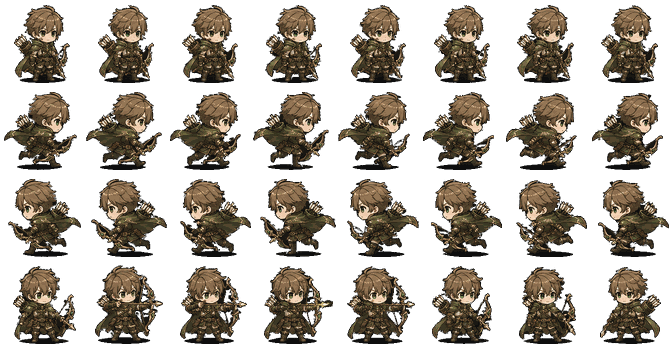
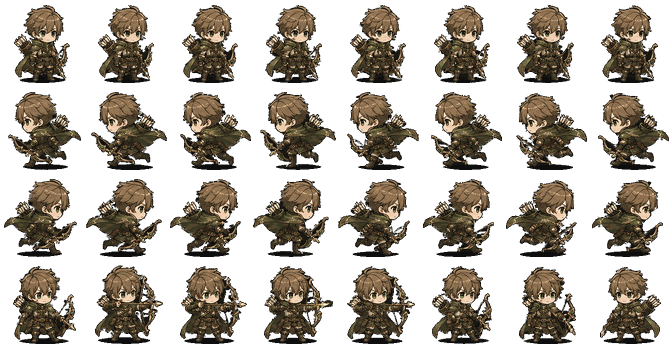
전사 시안을 그림 파일로 갈아 끼우고, 궁수 걷기를 바로 굽는다
여덟 번째로 받은 시안이다(`warrior.png`). 도형으로 그린 전사는 지웠고, 이로써
아군은 모두 시안 그림이 됐다 — 남은 도형 넷은 전부 적이다.

- 칸 93×90, 8칸×4줄에 넷 다 여덟 장씩. 인물의 키는 앞의 일곱과 같은 76픽셀,
  `box`는 25다. 공격의 붉은 참격은 앞의 셋과 같은 자리라 효과째 담았다.
- 번호표가 효과의 어두운 안개와 이어져 성분으로 안 갈리는 프레임이 있었다.
  번호표는 늘 칸의 왼쪽 위 구석에 있고 인물은 칸 가운데에 서므로, 그 구석을
  라벨링 전에 지운다.

**궁수 걷기를 다시 구웠다.** 어제 "궁수 시안은 오른쪽으로 걷는다"고 읽고 걷기 줄을
뒤집어 구운 것이 틀렸다 — 얼굴이 있는 쪽으로 다시 보니 궁수도 다른 시안과 같이
왼쪽으로 걷는다. `clips`에서 줄을 맞바꿔 덮어 두었던 예외를 없애고 그림을 바로
구워, 여덟 시트가 모두 같은 규칙(1행 왼쪽·2행 오른쪽)을 따른다.

**대신 그릴 도형을 이름으로 집지 않도록 고쳤다**(`Sprites.svg`). 전사 도형이
사라지자 거기서 터졌다 — 시안이 오는 대로 도형이 하나씩 없어지므로 이름을 집어
두면 언젠가 또 걸린다.

검증: 힐러 테스트 열두 파일 전부 통과(ai 109 · art 168 · attrs 69 · flow 58 ·
items 105 · logic 401 · loot 34 · progress 142 · quests 52 · rep 121 ·
roster 117 · shop 28, 실패 0). 크로뮴에서 전장·편성 목록·전투 초상화 세 자리를
모두 보고 페이지 오류가 없음을 확인했으며, 궁수 시트는 줄마다 얼굴 방향을 눈으로
다시 봤다.

Claude-Session: https://claude.ai/code/session_015YSpsURuUqPhSx5KiHykMJ

Changed region(s): [[0.0, 0.2586, 1.0, 0.4885], [0.0, 0.5172, 1.0, 0.7471]]

diff --git a/games/healer/sprites.js b/games/healer/sprites.js
@@ -114,23 +114,6 @@ const SPRITES = {
   // 남겨 두면 죽은 자료가 살아 있는 것처럼 보이고, 화면이 분기를 한 번 놓치면
   // 조용히 전사 그림이 나온다.
 
-  // 전사. 치켜든 큰 검과 어깨 가죽. 같은 근접인 도적과는 덩치와 무기로 갈린다.
-  warrior: {
-    w: 16, h: 20,
-    parts: [
-      ...body({ cloth: 'r', trim: 'l', boot: 'L' }),
-      // 어깨 가죽. 전사는 갑옷을 반쪽만 걸친다.
-      { p: 'M2.8 11.6 Q3.0 9.6 5.6 9.6 L5.6 12.6 Q3.8 12.8 2.8 11.6 Z', f: 'l' },
-      { p: 'M2.9 4.6 Q3.4 -0.2 8 -0.2 Q12.6 -0.2 13.1 4.6 Q10.6 2.8 8 2.8 Q5.4 2.8 2.9 4.6 Z', f: 'h' },
-      { p: 'M2.9 4.6 Q2.5 7.6 3.3 9.2 Q2.3 6.4 3.4 4.2 Z', f: 'H', o: 0 },
-      // 검. 손에서 위로 뻗어 머리 옆을 지난다.
-      { p: 'M13.9 0.2 L15.4 0.9 L15.1 9.6 L13.9 9.6 Z', f: 'm' },
-      { p: 'M13.9 0.2 L14.6 0.5 L14.4 9.6 L13.9 9.6 Z', f: 'M', o: 0 },
-      { r: [12.5, 9.6, 4.0, 1.2, 0.4], f: 'g' },
-      { r: [13.9, 10.6, 1.3, 3.4, 0.5], f: 'L' },
-    ],
-  },
-
   // 고블린 척후병. 작고 뾰족한 귀에 단검. 아군보다 작게 그려 나란히 섰을 때
   // 키 차이가 바로 보인다.
   goblin: {
@@ -277,6 +260,27 @@ const SHEETS = {
     },
   },
 
+  // 전사. 여덟 번째로 받은 시안이다. 공격의 붉은 참격이 옆으로 길지만 칸이 다른
+  // 시트와 비슷한 것은, 이 시안의 인물이 그만큼 야무지게 서 있기 때문이다.
+  warrior: {
+    src: 'warrior.png',
+    cell: { w: 93, h: 90 },
+    cols: 8, rows: 4,
+    box: 25,
+    clips: {
+      idle:      { row: 0, frames: 8, fps: 6 },
+      walkLeft:  { row: 1, frames: 8, fps: 10 },
+      walkRight: { row: 2, frames: 8, fps: 10 },
+      attack:    { row: 3, frames: 8, fps: 12, once: 1 },
+    },
+    // 앞의 일곱과 같은 이유로 대기 줄만 뒤집어 구웠다.
+    crops: {
+      full: { x: 0, y: 0, w: 1, h: 1 },
+      list: { x: 0.21, y: 0.05, w: 0.60, h: 0.92 },
+      head: { x: 0.28, y: 0.06, w: 0.46, h: 0.49 },
+    },
+  },
+
   // 사제. 일곱 번째로 받은 시안이다. **주인공과 나란히 서는 그림이라** 둘이 다
   // 흰 로브인데, 주인공은 크림색에 금 장식이고 이쪽은 흰 두건에 푸른 띠다 —
   // 도형이던 때에 색과 머리로 갈랐던 것과 같은 자리다.
@@ -371,8 +375,7 @@ const SHEETS = {
   },
 
   // 궁수. 세 번째로 받은 시안이다. 줄이 셋뿐이라(대기·이동·공격) 걷기는 한쪽을
-  // 뒤집어 만든다 — 주인공과 같은 사정인데 방향이 반대다. 시안이 오른쪽으로
-  // 걸으므로 여기서는 **왼쪽**을 뒤집어 만든다.
+  // 뒤집어 만든다 — 시안이 어느 쪽으로 걷는지는 시안마다 보고 정한다.
   archer: {
     src: 'archer.png',
     cell: { w: 84, h: 87 },
@@ -382,17 +385,13 @@ const SHEETS = {
     box: 25,
     clips: {
       idle:      { row: 0, frames: 8, fps: 6 },
-      // **이 시트만 걷기 두 줄의 차례가 반대다.** 다른 시트는 시안이 왼쪽으로
-      // 걸어 원본이 1행에 그대로 들어가고 뒤집은 것이 2행이 됐는데, 궁수는 시안이
-      // 오른쪽으로 걸으므로 같은 순서로 구우면 1행이 오른쪽, 2행이 왼쪽이 된다.
-      // 다시 굽는 대신 여기서 줄을 가리켜 맞춘다 — 시트는 사람이 그린 것이라
-      // 자료 한 줄로 끝날 일에 그림을 건드리지 않는다.
-      walkLeft:  { row: 2, frames: 8, fps: 10 },
-      walkRight: { row: 1, frames: 8, fps: 10 },
+      walkLeft:  { row: 1, frames: 8, fps: 10 },
+      walkRight: { row: 2, frames: 8, fps: 10 },
       attack:    { row: 3, frames: 8, fps: 12, once: 1 },
     },
     // 앞의 둘과 같은 이유로 대기 줄만 뒤집어 구웠다. 시안의 대기는 활을 왼손에
-    // 들어 왼쪽을 보는 것으로 읽히는데, 공격은 오른쪽으로 쏜다.
+    // 들어 왼쪽을 보는 것으로 읽히는데, 공격은 오른쪽으로 쏜다. 걷기도 다른
+    // 시트와 같이 시안이 왼쪽으로 걸어, 오른쪽 줄만 뒤집어 만들었다.
     crops: {
       full: { x: 0, y: 0, w: 1, h: 1 },
       list: { x: 0.15, y: 0.04, w: 0.70, h: 0.94 },
@@ -430,7 +429,9 @@ const cache = new Map();
 
 function svg(kind) {
   if (cache.has(kind)) return cache.get(kind);
-  const sprite = SPRITES[kind] || SPRITES.warrior;
+  // **대신 그릴 것을 이름으로 집지 않는다.** 시안이 오는 대로 도형이 하나씩
+  // 사라지므로, 집어 둔 이름이 없어지는 날 여기서 터진다(실제로 전사가 그랬다).
+  const sprite = SPRITES[kind] || Object.values(SPRITES)[0];
   const parts = sprite.parts.map(shape).join('');
   // 테두리가 바깥으로 반 굵기 삐져나가고, 뿔이나 검이 격자를 조금 넘는다.
   // 여유 한 칸을 두지 않으면 그것들이 잘린다.
@@ -451,7 +452,9 @@ function size(kind) {
     const h = s.box || 22;
     return { w: Math.round((h * s.cell.w) / s.cell.h * 10) / 10, h };
   }
-  const sprite = SPRITES[kind] || SPRITES.warrior;
+  // **대신 그릴 것을 이름으로 집지 않는다.** 시안이 오는 대로 도형이 하나씩
+  // 사라지므로, 집어 둔 이름이 없어지는 날 여기서 터진다(실제로 전사가 그랬다).
+  const sprite = SPRITES[kind] || Object.values(SPRITES)[0];
   return { w: sprite.w + 2, h: sprite.h + 2 };
 }
 

diff --git a/games/healer/art.test.js b/games/healer/art.test.js
@@ -54,11 +54,11 @@ function check(name, actual, expected) {
       Sprites.size(kind), { w: sprite.w + 2, h: sprite.h + 2 });
   }
 
-  // 시안을 받은 일곱만 그림 파일이고 나머지 다섯(전사·고블린·주술사·오크·
-  // 우두머리)이 도형이다. 화풍이 섞이는 것은 시안이 오는 대로 하나씩 갈아
-  // 끼우기 때문이다 — 남은 시안이 오면 여기부터 바뀐다.
-  check('도형 그림 다섯', Object.keys(Sprites.SPRITES).length, 5);
-  check('그림 파일 일곱', Object.keys(Sprites.SHEETS).length, 7);
+  // 시안을 받은 여덟만 그림 파일이고 나머지 넷(고블린·주술사·오크·우두머리)이
+  // 도형이다. 화풍이 섞이는 것은 시안이 오는 대로 하나씩 갈아 끼우기 때문이다 —
+  // 남은 시안이 오면 여기부터 바뀐다. **남은 넷은 전부 적이다.**
+  check('도형 그림 넷', Object.keys(Sprites.SPRITES).length, 4);
+  check('그림 파일 여덟', Object.keys(Sprites.SHEETS).length, 8);
   // 한쪽에만 있어야 한다. 양쪽에 두면 화면이 분기를 놓쳤을 때 조용히 도형이 나온다.
   const both = Object.keys(Sprites.SHEETS).filter((k) => Sprites.SPRITES[k]);
   check('그림 파일은 도형으로 겹치지 않는다', both, []);

diff --git a/index.html b/index.html
@@ -105,7 +105,7 @@
     <a href="https://github.com/cshlacid/web-games">GitHub</a>
     <!-- 배포 표시. main에 머지할 때마다 올린다 — 규칙은 CLAUDE.md에 있다.
          날짜에 그날의 번호를 붙여, 같은 날 여러 번 올려도 구별된다. -->
-    <span class="deploy">2026-09-06.17</span>
+    <span class="deploy">2026-09-07.1</span>
   </footer>
 </main>
 

diff --git a/games/healer/CLAUDE.md b/games/healer/CLAUDE.md
@@ -1660,12 +1660,12 @@ Lv6 알맞음 75% · Lv6+3 방치 4% · Lv6+3 42% · Lv3+2 46% · Lv8+2 25% · L
 
 ### 시안을 받은 캐릭터만 그림 파일이다
 
-**받은 시안을 그대로 쓰기로 하면서 일곱이 도형을 포기했다**(주인공·수호자·궁수·
-마법사·도적·음유시인·사제, `sprites.js`의 `SHEETS`). 저장소에 바이너리를 두지
+**받은 시안을 그대로 쓰기로 하면서 여덟이 도형을 포기했다**(주인공·수호자·궁수·
+마법사·도적·음유시인·사제·전사, `sprites.js`의 `SHEETS`). 저장소에 바이너리를 두지
 않는다는 루트 규칙의 예외이고, 거기에도 적어 두었다.
 
-- **나머지 다섯은 그대로 도형이라 화풍이 섞인다**(전사·고블린·주술사·오크·
-  우두머리). 시안이 오는 대로 하나씩 갈아
+- **나머지 넷은 그대로 도형이라 화풍이 섞인다.** 남은 넷은 전부 적이다(고블린·
+  주술사·오크·우두머리) — 아군은 모두 시안으로 갔다. 시안이 오는 대로 하나씩 갈아
   끼우기 때문이다. 남은 시안이 오면 여기부터 바뀐다.
 - **갈아 끼운 도형은 지웠다.** 남겨 두면 죽은 자료가 살아 있는 것처럼 보이고,
   화면이 분기를 한 번 놓치면 조용히 그 도형이 나온다(`art.test.js`가 `SHEETS`와
@@ -1673,11 +1673,16 @@ Lv6 알맞음 75% · Lv6+3 방치 4% · Lv6+3 42% · Lv3+2 46% · Lv8+2 25% · L
 - **프레임을 격자 한 장에 담는다**(8칸×4줄). 주인공은 칸 98×89에 서 있기 8장·
   좌우 걷기 각 7장·공격 7장, 수호자는 칸 92×91에, 궁수는 칸 84×87에 넷 다 8장,
   마법사는 칸 84×96에 공격만 7장, 도적은 칸 101×88에, 음유시인은 칸 102×95에,
-  사제는 칸 102×89에 넷 다 8장이다. 줄마다 프레임 수가 달라 남는 칸은 비워 둔다 —
+  사제는 칸 102×89에, 전사는 칸 93×90에 넷 다 8장이다. 줄마다 프레임 수가 달라 남는 칸은 비워 둔다 —
   줄을 나누는 편이 파일을 여럿으로 쪼개는 것보다 요청이 적다.
-- **시안에 걷기가 한 방향만 오면 뒤집어 만든다.** 주인공·마법사·도적·음유시인·
-  사제는 왼쪽만 와서 오른쪽을 만들었고, **궁수는 오른쪽만 와서 왼쪽을 만들었다.** 지팡이나 활이 반대
-  손으로 가지만, 안 만들면 그 방향으로 갈 때 뒷걸음질만 남는다.
+- **시안의 걷기는 지금까지 전부 왼쪽이었다.** 오른쪽은 뒤집어 만든다. 지팡이나
+  활이 반대 손으로 가지만, 안 만들면 그 방향으로 갈 때 뒷걸음질만 남는다.
+  **방향은 눈으로 확인하고 굽는다** — 궁수를 오른쪽으로 걷는 것으로 잘못 읽어
+  걷기 두 줄이 뒤바뀐 채 나갔다. 얼굴이 있는 쪽이 앞이고 망토가 흐르는 쪽이
+  뒤다.
+- **대신 그릴 도형을 이름으로 집지 않는다**(`Sprites.svg`). 모르는 이름이 와도
+  화면이 비면 안 되는데, 집어 둔 이름의 도형이 시안으로 갈아 끼워지는 날 거기서
+  터진다 — 실제로 전사가 그랬다. 남아 있는 것 중 아무거나 쓴다.
 - **효과가 함께 그려져 온 시안은 효과째 굽는다**(마법사의 푸른 빛, 도적의 붉은
   참격, 음유시인의 금빛 음표, 사제의 신성한 빛). 빼려고 하면 옷 색과 갈리지 않아 몸에 구멍이 나고, 궁수의 화살처럼 멀리
   날아가지도 않는다. **대신 칸이 그 방향으로 늘어나므로 `box`로 되돌린다** —

diff --git a/CLAUDE.md b/CLAUDE.md
@@ -110,11 +110,11 @@
   그린다.** 저장소에 바이너리 애셋을 들이지 않고, 빌드 없이 정적 파일만 배포하는
   구조를 유지하기 위해서다.
 - **예외가 하나 있다: 힐러에서 시안을 받은 캐릭터의 그림**(`games/healer/hero.png`,
-  `tank.png`, `archer.png`, `mage.png`, `rogue.png`, `bard.png`, `priest.png`). 사람이
-  그린 시안을 그대로 쓰기로 하면서 도형을 포기한 자리다. 규칙을 없앤 것이 아니라 **시안을 받은 캐릭터만 그림 파일을
+  `tank.png`, `archer.png`, `mage.png`, `rogue.png`, `bard.png`, `priest.png`,
+  `warrior.png`). 사람이 그린 시안을 그대로 쓰기로 하면서 도형을 포기한 자리다. 규칙을 없앤 것이 아니라 **시안을 받은 캐릭터만 그림 파일을
   쓴다** — 나머지는 여전히 도형이고, 새 그림을 도형으로 그릴 수 없을 때에만 여기에
   더한다. 그림 파일을 들일 때 지키는 것: 프레임을 격자 한 장에 담아 요청을 하나로
-  두고, 화면에서 쓰는 크기의 두 배쯤에서 자르며(칸 98×89부터 102×95까지, 화면에서
+  두고, 화면에서 쓰는 크기의 두 배쯤에서 자르며(칸 84×87부터 102×95까지, 화면에서
   가장 큰 자리가 34px), 캐릭터끼리 키를 같은 값에 맞추고, 어느 화면에 어떤 칸을
   쓰는지는 자료로 적어 둔다(`sprites.js`의 `SHEETS`). 소리는 예외가 없다.
 - **아이콘도 그림이라 이모지나 기호 문자로 대신하지 않는다.** 글꼴이 그리는
